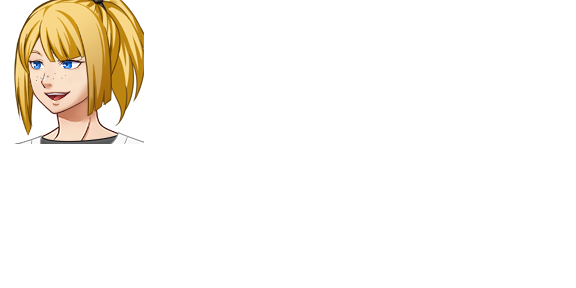
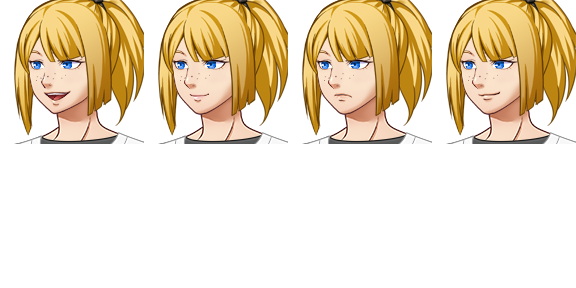
Created Intro v0.1 and modified a bit of the conv with harpa

Changed region(s): [[0.25, 0.0, 1.0, 0.5]]

diff --git a/js/plugins.js b/js/plugins.js
@@ -8,6 +8,9 @@ var $plugins =
 {"name":"Iavra Text Sound","status":true,"description":"Dynamically plays sound effects, while text messages are printed.\r\n<Iavra Text Sound>","parameters":{"Enable Text Sounds":"true","Sound Name":"Cursor1","Sound Pan":"0","Sound Pitch":"100","Sound Volume":"100","Interval":"1","Limit":"-1"}},
 {"name":"TerraxLighting","status":true,"description":"v1.5.1 Creates an extra layer that darkens a map and adds lightsources!","parameters":{"Player radius":"300","Add to options":"Yes","Option menu entry":"Lighting effects","Reset Lights":"No","Save DaynightHours":"0","Save DaynightMinutes":"0","Save DaynightSeconds":"0","Flashlight offset":"0","Screensize X":"866","Screensize Y":"630","Kill Switch":"No"}},
 {"name":"----------------------------------","status":true,"description":"","parameters":{}},
+{"name":"YEP_CoreEngine","status":true,"description":"v1.13 Needed for the majority of Yanfly Engine Scripts. Also\r\ncontains bug fixes found inherently in RPG Maker.","parameters":{"---Screen---":"","Screen Width":"816","Screen Height":"624","Scale Battlebacks":"true","Scale Title":"true","Scale Game Over":"true","Open Console":"false","Reposition Battlers":"true","---Gold---":"","Gold Max":"99999999","Gold Font Size":"20","Gold Icon":"313","Gold Overlap":"A lotta","---Items---":"","Default Max":"99","Quantity Text Size":"20","---Stats---":"","Max Level":"99","Actor MaxHP":"9999","Actor MaxMP":"9999","Actor Parameter":"999","Enemy MaxHP":"999999","Enemy MaxMP":"9999","Enemy Parameter":"999","---Battle---":"","Animation Rate":"4","Flash Target":"false","---Font---":"","Chinese Font":"SimHei, Heiti TC, sans-serif","Korean Font":"Dotum, AppleGothic, sans-serif","Default Font":"GameFont, Verdana, Arial, Courier New","Font Size":"28","Text Align":"left","---Windows---":"","Digit Grouping":"true","Line Height":"36","Icon Width":"32","Icon Height":"32","Face Width":"144","Face Height":"144","Window Padding":"18","Text Padding":"6","Window Opacity":"192","Gauge Outline":"true","Gauge Height":"18","Menu TP Bar":"true","---Window Colors---":"","Color: Normal":"0","Color: System":"16","Color: Crisis":"17","Color: Death":"18","Color: Gauge Back":"19","Color: HP Gauge 1":"20","Color: HP Gauge 2":"21","Color: MP Gauge 1":"22","Color: MP Gauge 2":"23","Color: MP Cost":"23","Color: Power Up":"24","Color: Power Down":"25","Color: TP Gauge 1":"28","Color: TP Gauge 2":"29","Color: TP Cost Color":"29"}},
+{"name":"YEP_MessageCore","status":true,"description":"v1.11 Adds more features to the Message Window to customized\nthe way your messages appear and functions.","parameters":{"---General---":"","Default Rows":"4","Default Width":"Graphics.boxWidth","Face Indent":"Window_Base._faceWidth + 24","Fast Forward Key":"pagedown","Enable Fast Forward":"true","Word Wrapping":"false","Description Wrap":"false","Word Wrap Space":"false","---Font---":"","Font Name":"GameFont","Font Size":"28","Font Size Change":"12","Font Changed Max":"96","Font Changed Min":"12","Font Outline":"4","---Name Box---":"","Name Box Buffer X":"-28","Name Box Buffer Y":"0","Name Box Padding":"this.standardPadding() * 4","Name Box Color":"0","Name Box Clear":"false","Name Box Added Text":"\\c[6]"}},
+{"name":"----------------------------------","status":true,"description":"","parameters":{}},
 {"name":"SRD_SuperToolsEngine","status":true,"description":"The heart of all maker-style plugins; it adds a playtesting editor that can be opened with F12.","parameters":{"Connect Editor":"true","Auto Open Window":"false","Auto Move Window":"true","Menu Editor Exempt List":"[\"Window_BattleLog\",\"Window_MapName\"]"}},
 {"name":"SRD_HUDMaker","status":true,"description":"Allows developers to create their own map-based HUD through an in-game GUI window!","parameters":{"Active Updating":"false","Show During Events":"transparent","Map Global Condition":"","Battle Global Condition":"","Disable Delete Key":"true"}},
 {"name":"----------------------------------","status":true,"description":"","parameters":{}},
@@ -20,6 +23,7 @@ var $plugins =
 {"name":"SaveSystem","status":true,"description":"Code for the saving system","parameters":{}},
 {"name":"Chapters","status":true,"description":"Code for getting the chapter information","parameters":{}},
 {"name":"Load","status":true,"description":"to add load option in menu screen.","parameters":{}},
+{"name":"Prologue_Metro","status":true,"description":"Code for the events in metro","parameters":{}},
 {"name":"----------------------------------","status":false,"description":"","parameters":{}},
 {"name":"SRD_TranslationEngine","status":true,"description":"Provides game developers with an in-game tool for building and managing translations/localizations for their game's text.","parameters":{"Source Language Name":"English","Languages":"[\"English\",\"Portuguese\"]","Default Language":"","Provide Option?":"true","Option Name":"Language","Allow Message Update?":"true"}},
 {"name":"YEP_CoreEngine","status":true,"description":"v1.13 Needed for the majority of Yanfly Engine Scripts. Also\ncontains bug fixes found inherently in RPG Maker.","parameters":{"---Screen---":"","Screen Width":"816","Screen Height":"624","Scale Battlebacks":"true","Scale Title":"true","Scale Game Over":"true","Open Console":"false","Reposition Battlers":"true","---Gold---":"","Gold Max":"99999999","Gold Font Size":"20","Gold Icon":"313","Gold Overlap":"A lotta","---Items---":"","Default Max":"99","Quantity Text Size":"20","---Stats---":"","Max Level":"99","Actor MaxHP":"9999","Actor MaxMP":"9999","Actor Parameter":"999","Enemy MaxHP":"999999","Enemy MaxMP":"9999","Enemy Parameter":"999","---Battle---":"","Animation Rate":"4","Flash Target":"false","---Font---":"","Chinese Font":"SimHei, Heiti TC, sans-serif","Korean Font":"Dotum, AppleGothic, sans-serif","Default Font":"GameFont, Verdana, Arial, Courier New","Font Size":"28","Text Align":"left","---Windows---":"","Digit Grouping":"true","Line Height":"36","Icon Width":"32","Icon Height":"32","Face Width":"144","Face Height":"144","Window Padding":"18","Text Padding":"6","Window Opacity":"192","Gauge Outline":"true","Gauge Height":"18","Menu TP Bar":"true","---Window Colors---":"","Color: Normal":"0","Color: System":"16","Color: Crisis":"17","Color: Death":"18","Color: Gauge Back":"19","Color: HP Gauge 1":"20","Color: HP Gauge 2":"21","Color: MP Gauge 1":"22","Color: MP Gauge 2":"23","Color: MP Cost":"23","Color: Power Up":"24","Color: Power Down":"25","Color: TP Gauge 1":"28","Color: TP Gauge 2":"29","Color: TP Cost Color":"29"}},

diff --git a/js/plugins/Prologue_Metro.js b/js/plugins/Prologue_Metro.js
@@ -12,3 +12,32 @@
  *
  *
  */
+
+(function () {
+
+    getPlayerPositionX = function () {
+        return $gamePlayer.x;
+    }
+
+    getPlayerPositionY = function () {
+        return $gamePlayer.y;
+    }
+
+    screenCenter = function (x, y) {
+        $gameVariables.setValue(9, Math.round(x));
+        $gameVariables.setValue(8, Math.round(y));
+    }
+
+
+    sitHarper = function () {
+        let x = getPlayerPositionX();
+        let y = getPlayerPositionY();
+        if (y == 10 && x == 20) {
+            return 0;
+        } else if (x == 21 && y == 9) {
+            return 1;
+        } else if (x == 19 && y == 9) {
+            return 2;
+        }
+    }
+})();
